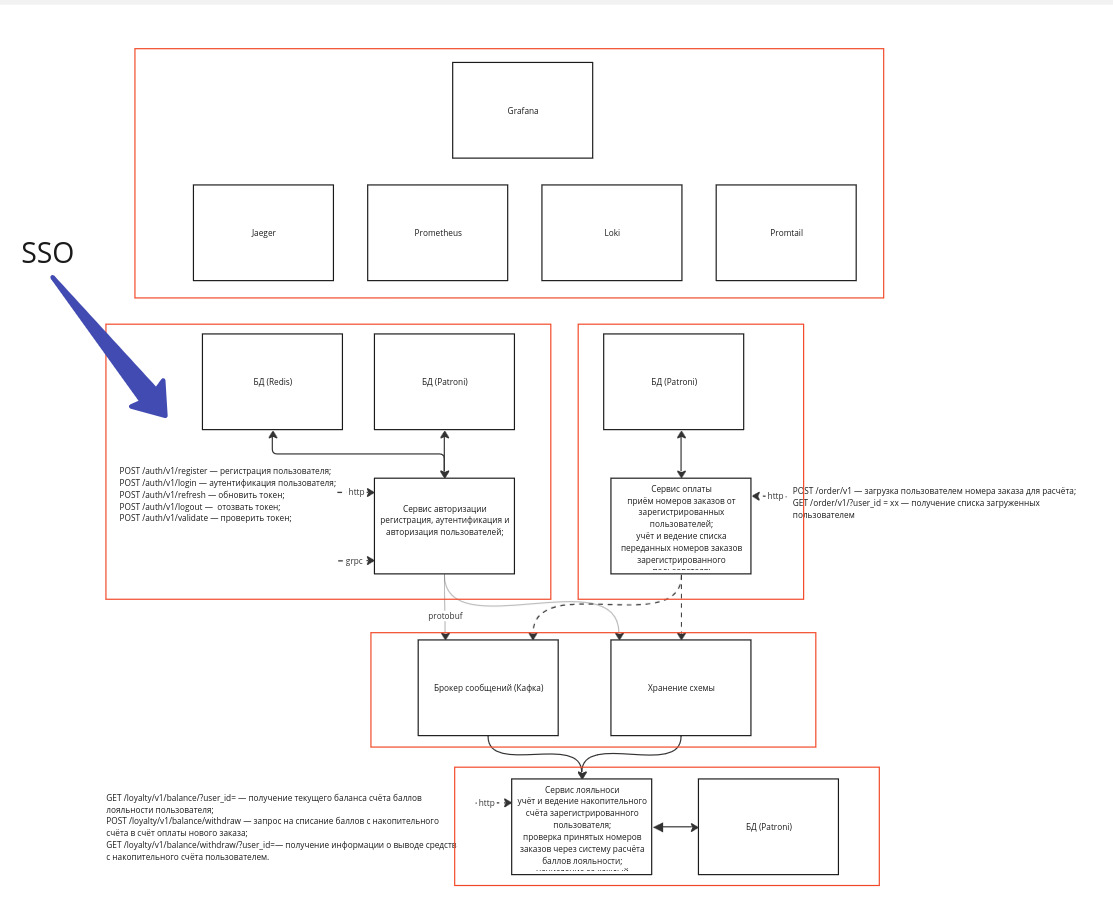
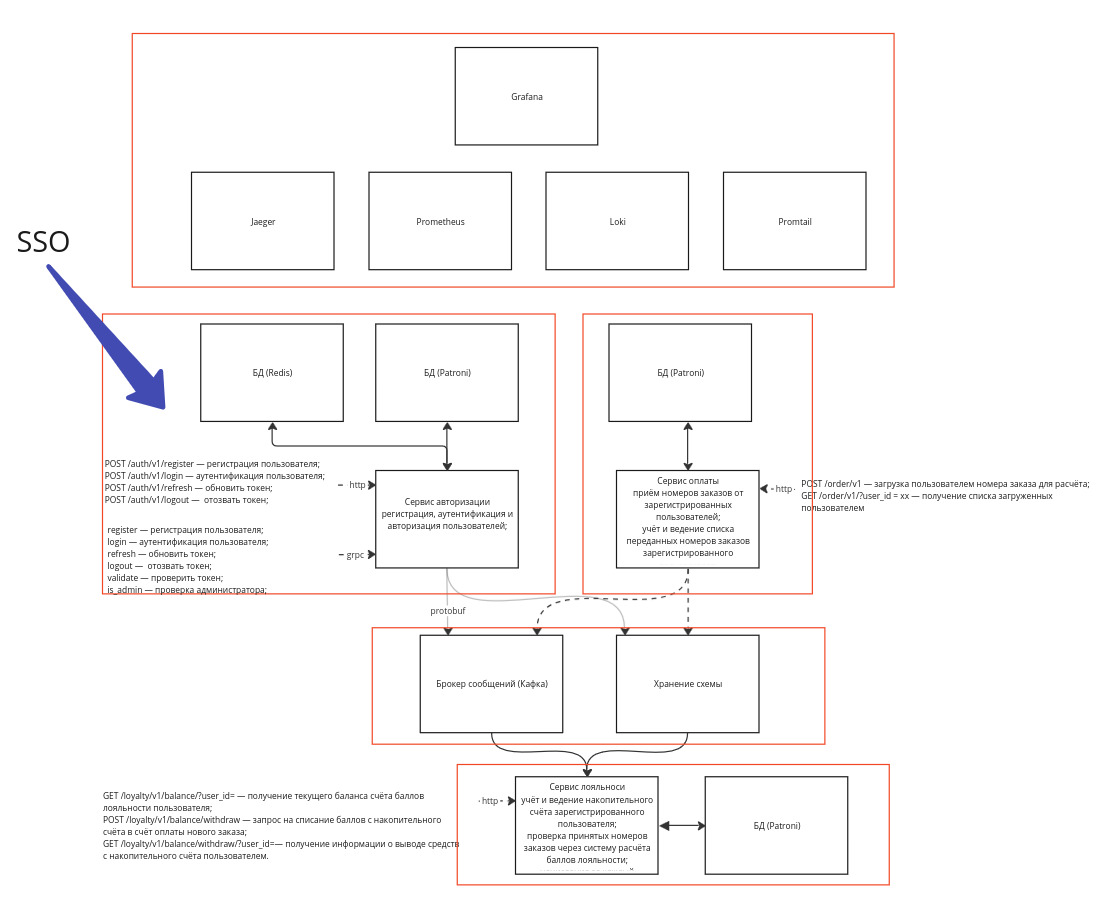
add info to readme

diff --git a/README.md b/README.md
@@ -7,6 +7,9 @@
 невозможностью сохранить трейс без разбиейний. Быстрый фикс. Код для обсуждения. Не для ревью 
 * Тестовый консьюмер `kafka_consumer` будет удален в дальнейших версиях. Не для ревью.
 * SSO - входит в общий проект по начислению балов лояльности пользователям при покупке и регистрации.
+* НЕ закрывал порты на БД в docker-compose. В проде врятли кто будет использовать 
+ docker-compose на 1 машине. Скорее всего это будет k8s или еще какой-то оркестратор,
+ а stateful приложения, вероятно, будут вынесены из кубера (холивар).
 
 ![Схема.jpg](docs%2FScheme.jpg)
 
@@ -28,10 +31,61 @@
 cd commands && task local
 ```
 
+Ожидаемый вывод (может занять какое-то время)
+```
+.......                                                                                                                                                                      2.5s 
+ ✔ Container infra-redis_sentinel1-1  Started                                                                                                                                                                         2.5s 
+ ✔ Container infra-redis_sentinel2-1  Started                                                                                                                                                                         2.6s 
+Error response from daemon: No such container: patroni1
+Error response from daemon: No such container: patroni1
+.....
+.....
+.....
+Error response from daemon: No such container: patroni1
+migrations applied successfully
+time=2024-08-21T21:06:03.503+03:00 level=INFO source=/xxx/authloyalty/internal/middleware/gzipCompressor.go:52 msg="gzip compressor enabled" component=middleware/gzip
+time=2024-08-21T21:06:03.503+03:00 level=INFO source=/xxx/authloyalty/internal/middleware/gzipDecompressor.go:44 msg="gzip decompressor middleware enabled" component=middleware/gzip
+time=2024-08-21T21:06:03.503+03:00 level=INFO source=/xxx/authloyalty/internal/middleware/logger.go:16 msg="logger middleware enabled" component=middleware/logger
+2024/08/21 21:06:03 INFO grpc server starting
+2024-08-21T21:06:03.505+0300    INFO    boot/grpc_entry.go:971  Bootstrap grpcEntry     {"eventId": "f7d05c8d-ecc3-47e8-8897-2ed4490ce7d0", "entryName": "sso", "entryType": "gRPC"}
+------------------------------------------------------------------------
+endTime=2024-08-21T21:06:03.505428384+03:00
+startTime=2024-08-21T21:06:03.505230242+03:00
+elapsedNano=198142
+timezone=MSK
+ids={"eventId":"f7d05c8d-ecc3-47e8-8897-2ed4490ce7d0"}
+app={"appName":"rk","appVersion":"","entryName":"sso","entryType":"gRPC"}
+env={"arch":"amd64","az":"*","domain":"*","hostname":"pc","localIP":"172.25.0.1","os":"linux","realm":"*","region":"*"}
+payloads={"grpcPort":44044,"gwPort":44044,"swEnabled":true,"swPath":"/sw/"}
+counters={}
+pairs={}
+timing={}
+remoteAddr=localhost
+operation=Bootstrap
+resCode=OK
+eventStatus=Ended
+EOE
+2024/08/21 21:06:03 INFO http server starting
+```
+
 ##### Запуск на демо стенде:
 * Разворачивается инфраструктура и сервис в `docker compose`.
 ```bash
 cd commands && task demo
+```
+
+Ожидаемый вывод (может занять какое-то время)
+```
+.......                                                                                                                                                                      2.5s 
+ ✔ Container infra-redis_sentinel1-1  Started                                                                                                                                                                         2.5s 
+ ✔ Container infra-redis_sentinel2-1  Started                                                                                                                                                                         2.6s 
+Error response from daemon: No such container: patroni1
+Error response from daemon: No such container: patroni1
+.....
+.....
+.....
+Error response from daemon: No such container: patroni1
+migrations applied successfully
 ```
 
 ##### Запуск интеграционных тестов:
@@ -40,6 +94,68 @@ cd commands && task demo
 ```bash
 cd commands && task integration-tests 
 ```
+
+Ожидаемый вывод (может занять какое-то время)
+```
+ ✔ Container infra-redis_sentinel3-1  Started                                                                                                                                                                         2.8s 
+ ✔ Container infra-redis_sentinel1-1  Started                                                                                                                                                                         2.7s 
+ ✔ Container infra-sso-1              Started                                                                                                                                                                         3.2s 
+Error response from daemon: No such container: patroni1
+....
+Error response from daemon: No such container: patroni1
+migrations applied successfully
+=== RUN   TestIsAdminHappyPath
+=== PAUSE TestIsAdminHappyPath
+=== RUN   TestLoginHappyPath
+=== PAUSE TestLoginHappyPath
+=== RUN   TestLoginFailCases
+=== PAUSE TestLoginFailCases
+=== RUN   TestRegisterLoginHappyPath
+=== PAUSE TestRegisterLoginHappyPath
+=== RUN   TestRegisterHappyPath
+=== PAUSE TestRegisterHappyPath
+=== RUN   TestDuplicatedRegistration
+=== PAUSE TestDuplicatedRegistration
+=== RUN   TestAuthRegisterFailCases
+=== PAUSE TestAuthRegisterFailCases
+=== RUN   TestSuite
+time=2024-08-21T21:15:08.044+03:00 level=INFO source=/xxx/authloyalty/internal/middleware/gzipCompressor.go:52 msg="gzip compressor enabled" component=middleware/gzip
+time=2024-08-21T21:15:08.044+03:00 level=INFO source=/xxx/authloyalty/internal/middleware/gzipDecompressor.go:44 msg="gzip decompressor middleware enabled" component=middleware/gzip
+time=2024-08-21T21:15:08.044+03:00 level=INFO source=/home/xxx/authloyalty/internal/middleware/logger.go:16 msg="logger middleware enabled" component=middleware/logger
+...
+--- PASS: TestSuite (0.59s)
+    --- PASS: TestSuite/TestHttpServerRegisterHappyPath (0.57s)
+        --- PASS: TestSuite/TestHttpServerRegisterHappyPath/user_registration (0.56s)
+=== CONT  TestIsAdminHappyPath
+=== CONT  TestRegisterHappyPath
+=== CONT  TestLoginFailCases
+=== CONT  TestRegisterLoginHappyPath
+=== CONT  TestDuplicatedRegistration
+=== CONT  TestLoginHappyPath
+=== CONT  TestAuthRegisterFailCases
+=== RUN   TestLoginFailCases/Login_with_Empty_Password
+=== RUN   TestAuthRegisterFailCases/Register_with_Empty_Password
+=== RUN   TestLoginFailCases/Login_with_Empty_Email
+=== RUN   TestAuthRegisterFailCases/Register_with_Empty_Email
+=== RUN   TestLoginFailCases/Login_with_Both_Empty_Email_and_Password
+=== RUN   TestAuthRegisterFailCases/Register_with_Both_Empty
+--- PASS: TestLoginFailCases (0.00s)
+    --- PASS: TestLoginFailCases/Login_with_Empty_Password (0.00s)
+    --- PASS: TestLoginFailCases/Login_with_Empty_Email (0.00s)
+    --- PASS: TestLoginFailCases/Login_with_Both_Empty_Email_and_Password (0.00s)
+--- PASS: TestAuthRegisterFailCases (0.00s)
+    --- PASS: TestAuthRegisterFailCases/Register_with_Empty_Password (0.00s)
+    --- PASS: TestAuthRegisterFailCases/Register_with_Empty_Email (0.00s)
+    --- PASS: TestAuthRegisterFailCases/Register_with_Both_Empty (0.00s)
+--- PASS: TestIsAdminHappyPath (0.01s)
+--- PASS: TestLoginHappyPath (0.06s)
+--- PASS: TestRegisterHappyPath (0.07s)
+--- PASS: TestDuplicatedRegistration (0.13s)
+--- PASS: TestRegisterLoginHappyPath (0.13s)
+PASS
+ok      command-line-arguments  0.739s
+```
+
 
 ##### Запуск юнит тестов:
 * Инфраструктура НЕ разворачивается (сделаны моки).
